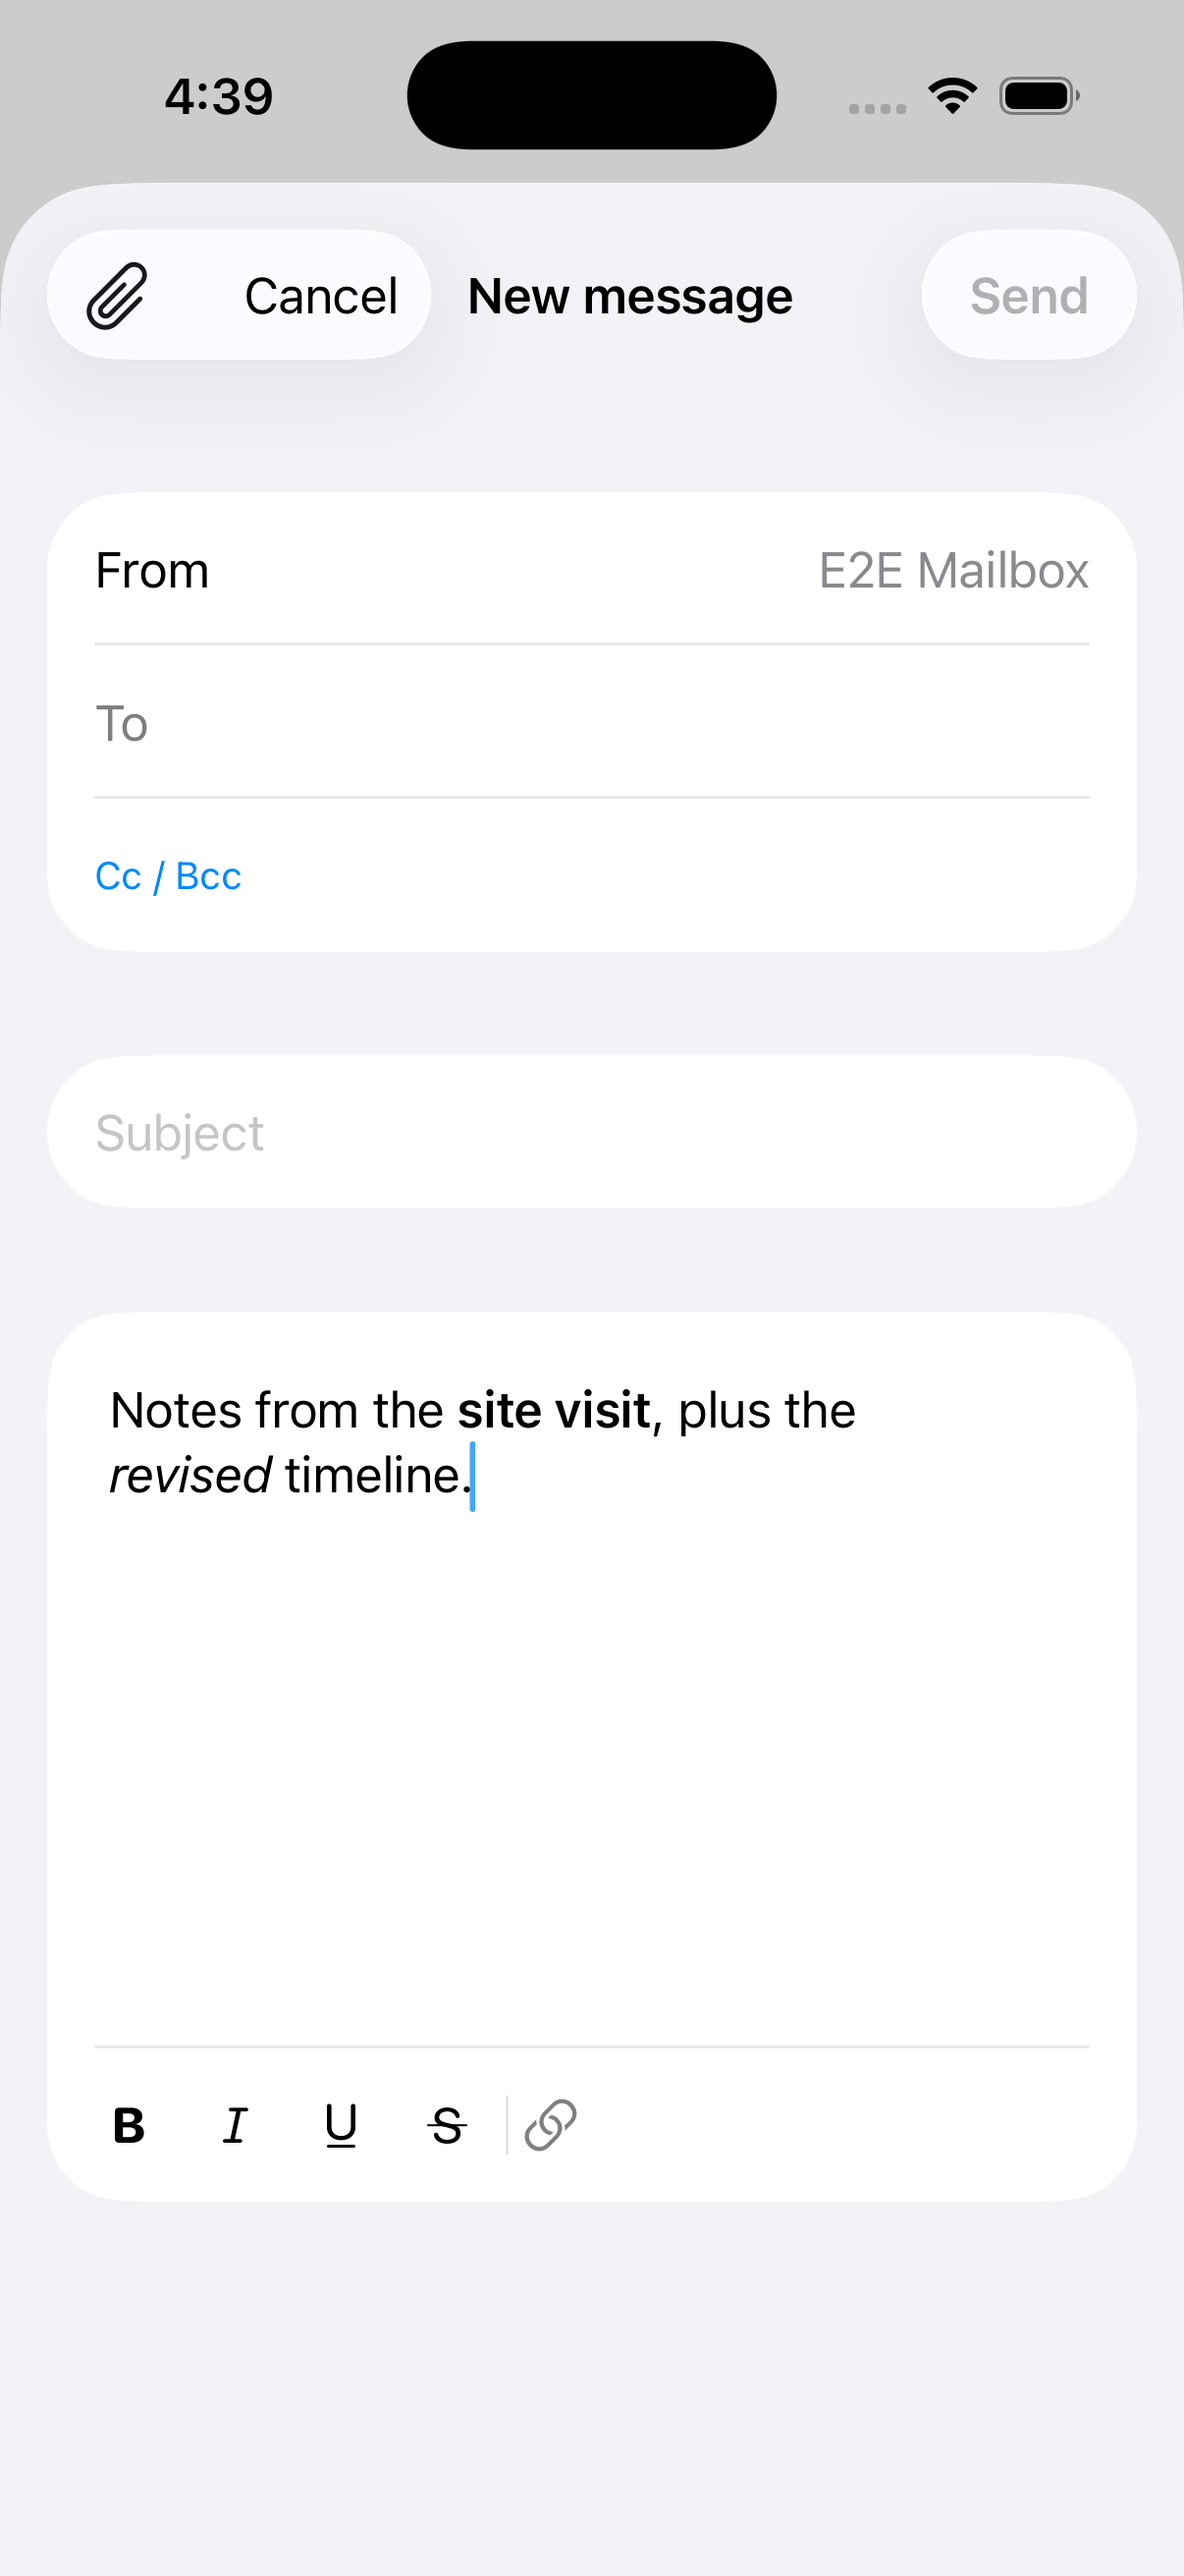
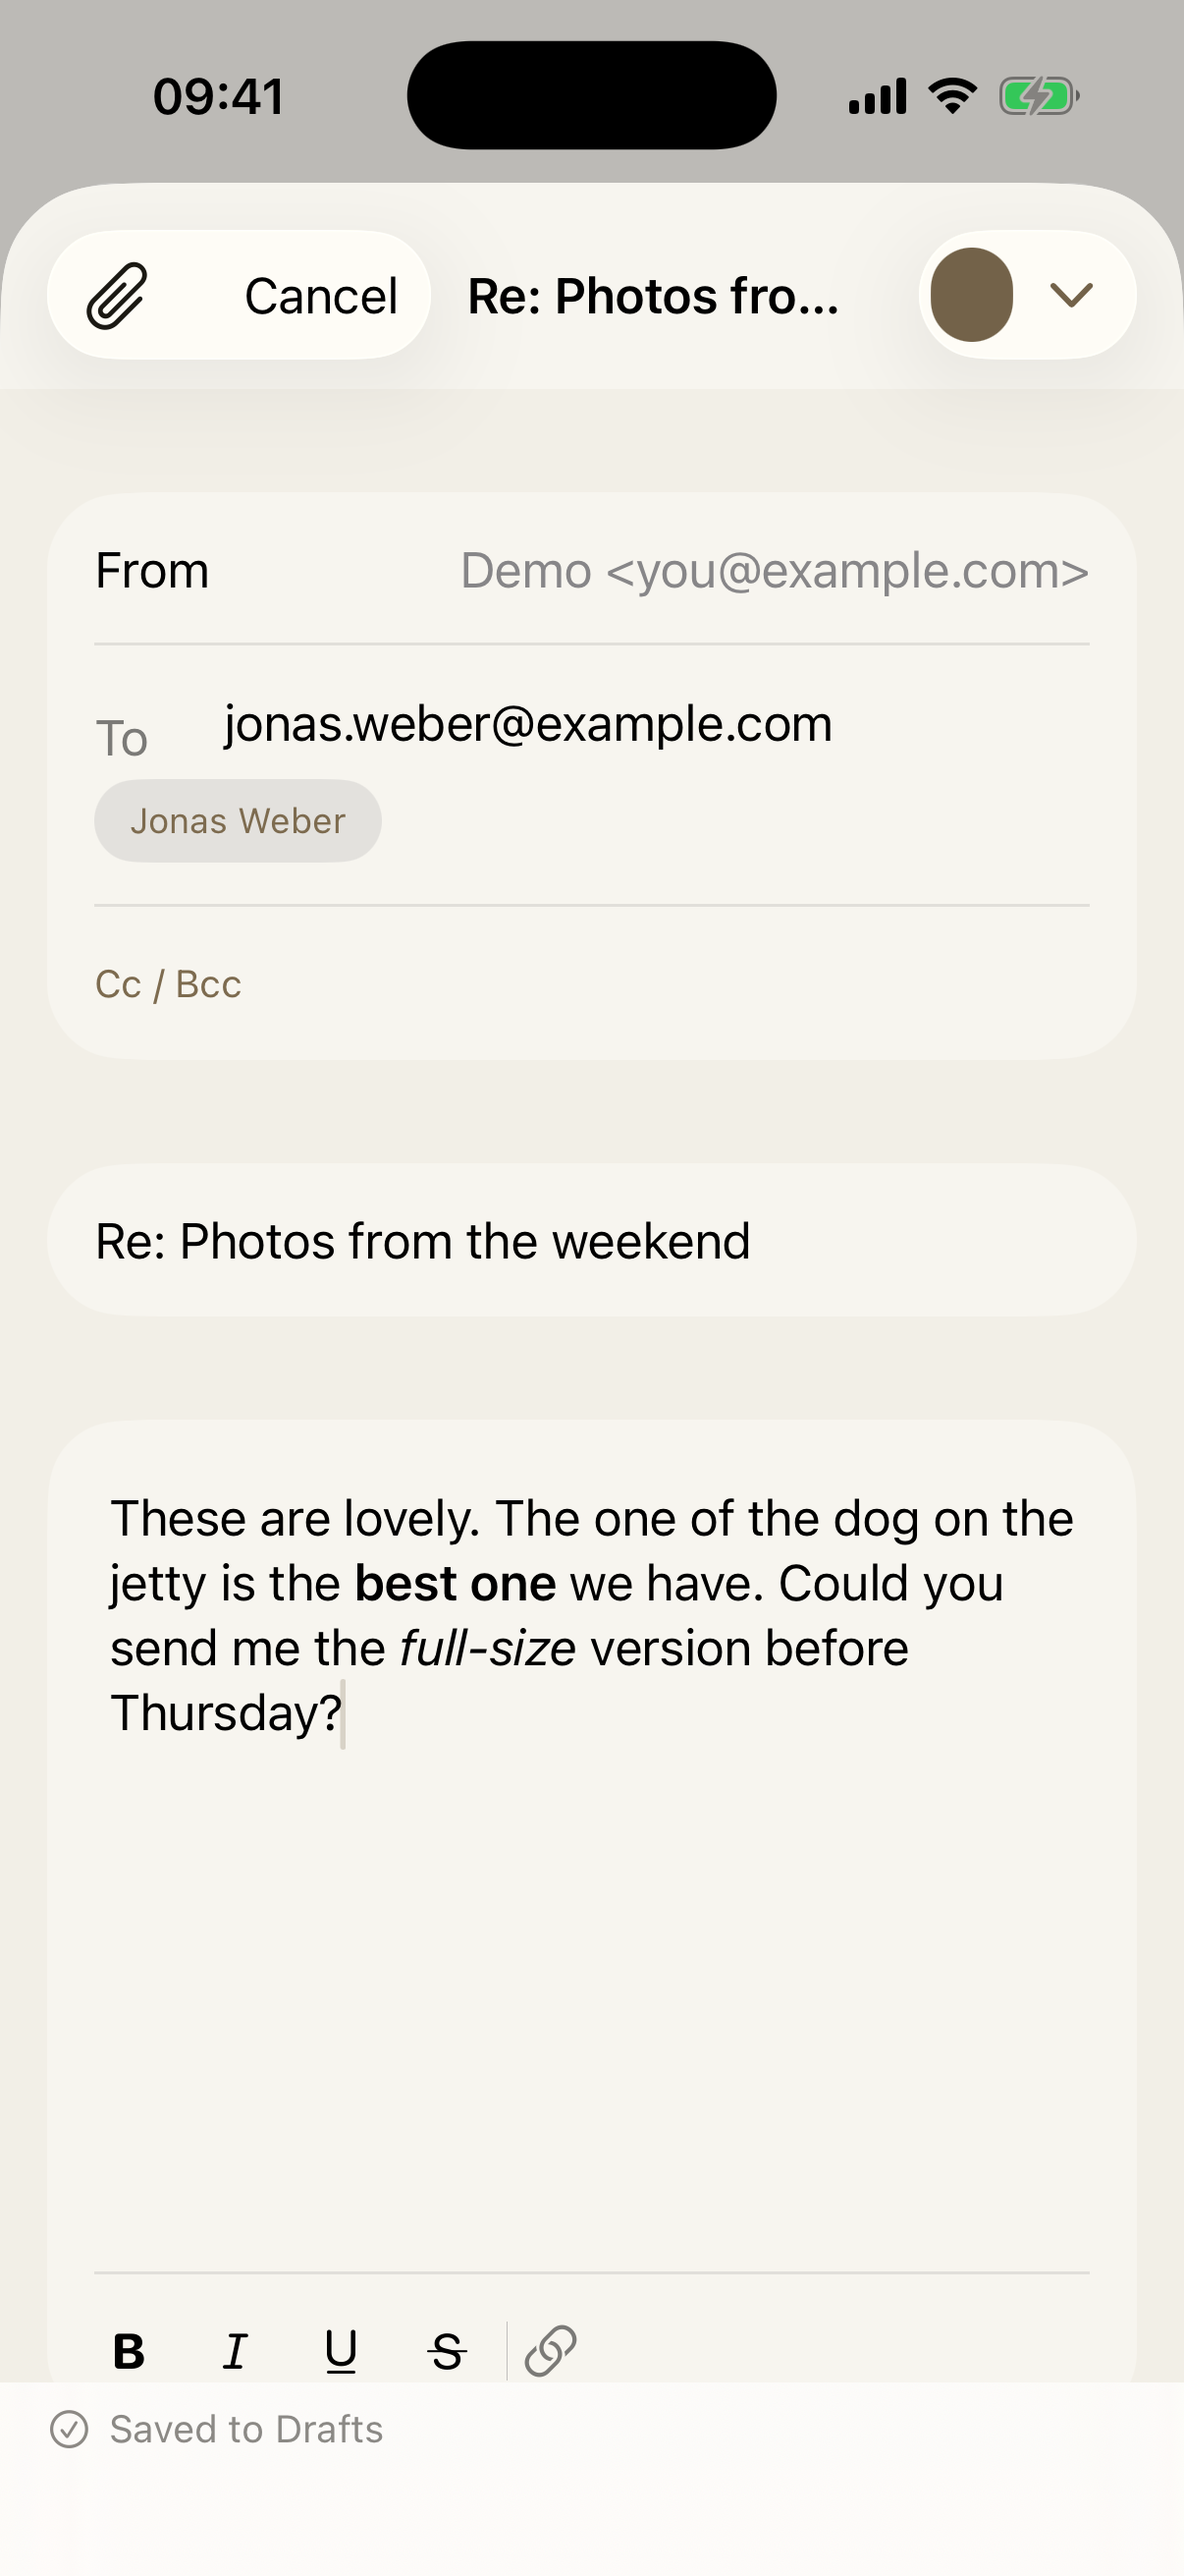
Retake every screenshot, and correct what the README claimed
The screenshots were from before the redesign and showed a mailbox full
of "E2E Star Me" and "E2E Archive Me" fixtures on the stock blue accent.
They are now the demo mailbox the seeder exists for, in English, on a 9:41
status bar: the list with its category tabs, label chips and unread marks;
a message with its labels and reply bar; the composer with bold and italic
applied mid-sentence; the sidebar with every mailbox and its counts; the
dark theme; the iPad shell; and two the README never had — the calendar,
and the appearance screen the themes are chosen on.

Three claims were no longer true and are fixed rather than dropped:

- **The account dot.** The list used to stamp each row with its account's
  colour. It does not any more — the colour lives in the sidebar's Accounts
  legend, because a mark every single row wears distinguishes nothing.
- **"It isn't live."** It is, while it is open: the app holds plMail's JMAP
  event stream and the header dot says whether that connection is up. What
  is missing is push while the app is *closed*, which still needs an APNs
  key and a paid account. Saying "not live" undersold the app and misnamed
  the gap.
- **Dragging a calendar block.** I nearly wrote that it moves the event. It
  does not: a drag carries the title and time out as text, deliberately,
  because moving an occurrence of a series needs a this-one-or-all choice
  the writable vocabulary cannot express.
[…]

diff --git a/README.md b/README.md
@@ -12,7 +12,7 @@ It talks to plMail directly over **JMAP** — no scraping, no bridge, no account
 
 ## What it does
 
-**One inbox, every account.** plMail already pulls your IMAP, Gmail and Outlook mailboxes into one place. The app keeps them that way — a single conversation list in time order, with a coloured dot showing which account a message came from. Narrowing to one account is something you choose, not the default.
+**One inbox, every account.** plMail already pulls your IMAP, Gmail and Outlook mailboxes into one place. The app keeps them that way — a single conversation list in time order, with each account's colour in the sidebar's Accounts legend rather than stamped on every row. Narrowing to one account is something you choose, not the default.
 
 **It works with no signal.** Everything you have already read is on the device, and so is search over it. Open the app on a train, in a lift, in a basement: your mail is there.
 
@@ -24,13 +24,17 @@ It talks to plMail directly over **JMAP** — no scraping, no bridge, no account
 
 **Reading done properly.** Messages render as the sender wrote them, on white, even when your phone is in dark mode — mail is authored for a light background, and forcing it dark gives you black text on black. Remote images stay blocked until you ask, because in email a remote image is usually a tracking pixel. Attachments open in Quick Look.
 
+**Your calendar, beside your mail.** plMail extracts events out of the mail it syncs — a flight, a delivery, a hotel booking — and the app draws them alongside the ones you typed in yourself. Day, week, month, year and agenda; create, edit and delete; share an event as `.ics`. On a tablet the calendar docks as a third column showing the week ahead, so a booking confirmation and the day it lands on are on screen at the same time. A band above it says what is about to happen and where the app got it from, because an event you did not put there should say so.
+
 **The rest of what you'd expect.** Swipe to archive or delete, with undo. Star, mark read, move between labels. Snooze a conversation until tomorrow morning or a time you pick, and it leaves the inbox and returns unread. Select a dozen messages and act on them at once. Search with the same `from:`, `in:`, `has:attachment` operators as the web UI — matched quirk for quirk, so a query means the same thing in both.
 
 **Recipients complete from your address book** as well as from mail you've already synced, with people you actually write to ranked first. Contacts are read on the device and never leave it, and you're only asked for them the first time you type a recipient — not on first launch.
 
 **Hardware keyboards work.** `c` composes, `r` replies, `e` archives, `s` stars, `⌘N` and `⌘↩` and Escape do the platform-standard things.
 
-**Dark mode, iPad and German** are not afterthoughts: three columns on a tablet, a real back stack on a phone, and the whole interface in either language.
+**The theme is yours, and it is the server's.** Light, dark, Nord, Dusk, Solar and the rest are chosen once in plMail and served to every client over `Appearance/get` — so the app you read on your phone matches the one in your browser, down to the accent, the density and the corner radius. Nothing here hardcodes a palette. The one place the theme stops is the message itself, which stays on white because mail is written for a light background.
+
+**iPad and German** are not afterthoughts: sidebar, list and reader side by side on a tablet — collapsing to an icon rail when the width runs out — a real back stack on a phone, and the whole interface in either language.
 
 **It works at large text sizes.** At the accessibility sizes the rows restack rather than truncating — a name you can read on two lines beats one you can't on one — and the reply bar drops to icons rather than hyphenating "Re-ply" inside a pill.
 
@@ -40,11 +44,15 @@ It talks to plMail directly over **JMAP** — no scraping, no bridge, no account
 
 | Conversations | Reading | Writing |
 |---|---|---|
-| <img src="docs/screenshots/01-inbox.png" alt="The unified conversation list"> | <img src="docs/screenshots/02-reader.png" alt="An open message with reply, reply all and forward"> | <img src="docs/screenshots/03-compose.png" alt="The composer, with bold and italic applied mid-sentence"> |
+| <img src="docs/screenshots/01-inbox.png" alt="The unified conversation list, with category tabs, label chips and unread marks"> | <img src="docs/screenshots/02-reader.png" alt="An open message with its labels, sender and reply bar"> | <img src="docs/screenshots/03-compose.png" alt="The composer, with bold and italic applied mid-sentence"> |
 
-| Mailboxes | Dark mode |
-|---|---|
-| <img src="docs/screenshots/04-sidebar.png" alt="The mailbox sidebar"> | <img src="docs/screenshots/05-dark.png" alt="The conversation list in dark mode"> |
+| Mailboxes | A dark theme | Themes |
+|---|---|---|
+| <img src="docs/screenshots/04-sidebar.png" alt="The mailbox sidebar, with unread counts and labels"> | <img src="docs/screenshots/05-dark.png" alt="The conversation list in the dark theme"> | <img src="docs/screenshots/08-appearance.png" alt="The appearance screen: theme, sender avatars, preview lines and accent"> |
+
+<p align="center">
+  <img src="docs/screenshots/07-calendar.png" width="90%" alt="The calendar on iPad: a day grid with the week above it and the selected event beside it">
+</p>
 
 ---
 
@@ -98,11 +106,13 @@ Open `plMail.xcodeproj`, pick a simulator, and press Run. Simulator builds need 
 
 ## What isn't there yet
 
-- **No push notifications.** New mail arrives when the app checks — on opening, and periodically in the background. The interface says "last checked N minutes ago" rather than implying it's live, because it isn't. The client side is built ([docs/PUSH.md](docs/PUSH.md)); what's missing is an APNs key, which needs a paid Apple developer account, and a sender on the plMail side.
+- **No push notifications while the app is closed.** Open, it *is* live: the app holds plMail's JMAP event stream, so a message read in a browser turns up here without anybody pressing anything, and the dot beside the mark in the header says whether that connection is up. Closed is the gap — new mail then arrives when the app next checks, on opening and periodically in the background. The client side is built ([docs/PUSH.md](docs/PUSH.md)); what's missing is an APNs key, which needs a paid Apple developer account, and a sender on the plMail side.
 - **The widget needs a paid account too.** It runs in its own process and reads the app's numbers through an App Group, which a free Apple ID cannot grant. It says so rather than showing a zero it can't justify.
 - **A few error messages are English-only** even with the app in German. The interface is translated; some failure messages from the networking layer aren't yet.
 - **The attachment picker is lightly tested** against unusual document providers, though the photo library and local files both work.
-- **This is a plMail client, not a general JMAP one.** Snooze, cross-account labels and search lean on plMail's own extensions. It won't work against Fastmail or a stock Cyrus server.
+- **No RSVP.** The calendar draws invitations but cannot answer them: `participants` and `myParticipation` are not in the JMAP vocabulary plMail exposes, so Yes / Maybe / No would be three buttons that do nothing. Answering an invitation is a trip to the web UI until the server publishes it — see [docs/parity/03-calendar.md](docs/parity/03-calendar.md) for exactly what it would take.
+
+- **This is a plMail client, not a general JMAP one.** Snooze, cross-account labels, the calendar and search all lean on plMail's own extensions. It won't work against Fastmail or a stock Cyrus server.
 
 ---
 
